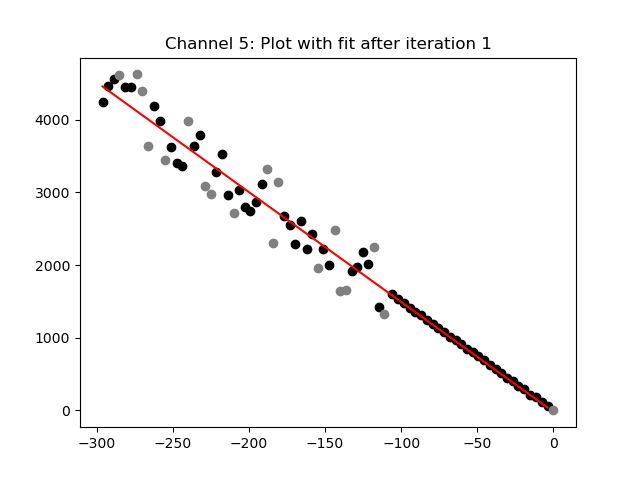
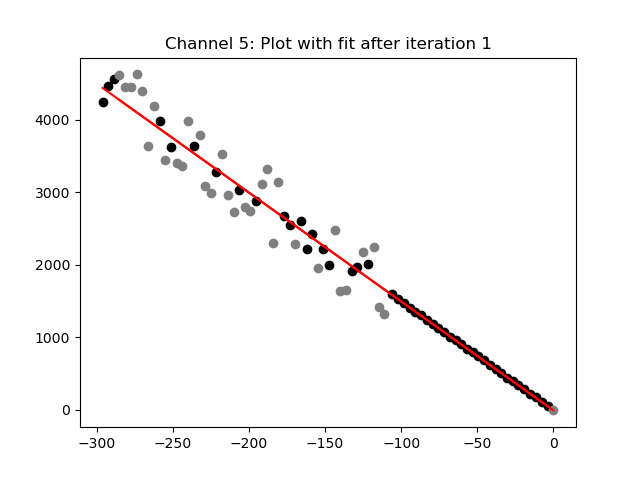
Outlier treatment 2: Treatment successful

diff --git a/Calibration_script/statistics.py b/Calibration_script/statistics.py
@@ -1,4 +1,5 @@
 from Calibration_script import main
+from Calibration_script import fit
 import numpy as np
 import scipy.optimize as so
 import scipy.stats as ss
@@ -14,29 +15,32 @@ def plot_with_fit(x,y,x_cut,y_cut,m,n,xlabel,ylabel,title):
     plt.ylabel(ylabel)
     plt.title(title)
     plt.scatter(x, y, color='black')
+    #plt.errorbar(x,y,yerr=2.44,fmt='ok')
     plt.scatter(x_cut, y_cut, color='grey')
     y_fit = lin(x,m,n)
     plt.plot(x,y_fit,'r-')
+    y_fit = lin(x_cut,m,n)
+    plt.plot(x_cut,y_fit,'r-')
     #plt.show()
-    plt.savefig(os.path.join('../data/validation', title))
+    plt.savefig(os.path.join('../data/statistics', title))
     return None
 
-def plot_residuals(x,r, cut, m, n, title):
+def plot_residuals(x,r, cut, m, n, title,name):
     plt.figure()
     plt.axhline(0)
     plt.grid()
     plt.scatter(x[~cut], r[~cut], color='black')
     plt.scatter(x[cut], r[cut], color='grey')
     plt.title(title)
-    plt.savefig(os.path.join('../data/validation',title))
+    plt.savefig(os.path.join('../data/statistics',name))
     return None
 
-def chi_square(y,y_fit):
-    chi2 = np.sum( (y-y_fit)**2/y_fit )
+def chi_square(y,y_fit,y_err):
+    chi2 = np.sum( (y-y_fit)**2/y_err)
     return chi2
 
 def outliers(x,y):
-    # range criteria
+    # range criteria (remove saturation)
     ymax, ymin = np.amax(y), np.amin(y)
     range = ymax - ymin
     print(f"Maximum and minimum:", ymax, ymin)
@@ -49,87 +53,99 @@ def outliers(x,y):
     cut = cut1 + cut2
 
     # use gradient of y values to fit only linear values (remove scattering values)
+    # gradient gives the "slope", twice gradient gives "curvature"
     grad = np.gradient(y)
     grad2 = np.gradient(grad)
-    mean_grad = np.mean(grad)
-    mean_grad2 = np.mean(grad2)
-    median_grad = np.median(grad)
-    median_grad2 = np.median(grad2)
+    mean_grad = np.mean(grad[~cut])
+    mean_grad2 = np.mean(grad2[~cut])
+    median_grad = np.median(grad[~cut])
+    median_grad2 = np.median(grad2[~cut])
     help_cut1 = grad2 > 10.0
     help_cut2 = grad2 < - 10.0
-    help_cut = help_cut1 + help_cut2
-
-    print(mean_grad)
-    print(median_grad)
+    help_cut = help_cut1 + help_cut2 + cut
+    print(f"Mean of grad: {mean_grad}")
+    print(f"Median of grad: {median_grad}")
 
     # remove false positive points of gradient criteria
-    help_cut1 = grad > 1.2 * mean_grad
-    help_cut2 = grad < 0.8 * mean_grad2
+    help_cut1 = np.abs(grad) > 1.2 * np.abs(mean_grad)
+    help_cut2 = np.abs(grad) < 0.8 * np.abs(mean_grad)
     help_cut = help_cut + help_cut1 + help_cut2
+
+    # if all points were removed due to outliers, use median instead of mean
+    if x[~help_cut].size == 0:
+        print("Condition activated!")
+        help_cut1 = grad2 > 10.0
+        help_cut2 = grad2 < - 10.0
+        help_cut = help_cut1 + help_cut2 + cut
+        # remove false positive points of gradient criteria
+        help_cut1 = np.abs(grad) > 1.2 * np.abs(median_grad)
+        help_cut2 = np.abs(grad) < 0.8 * np.abs(median_grad)
+        help_cut = help_cut + help_cut1 + help_cut2
 
     # plot gradients
     plt.figure()
     plt.grid()
-    plt.scatter(x[~help_cut], grad2[~help_cut], color="black")
-    plt.scatter(x[help_cut], grad2[help_cut], color="grey")
-    plt.title("Twice Gradient")
-
-    plt.figure()
-    plt.grid()
     plt.scatter(x[~help_cut], grad[~help_cut], color="black")
     plt.scatter(x[help_cut], grad[help_cut], color="grey")
-    plt.title("Gradient")
-    plt.show()
+    plt.title(f"First Gradient of Channel {channel}")
+    plt.savefig(f"../data/statistics/Channel {channel}: 1st Gradient")
+    plt.figure()
+    plt.grid()
+    plt.scatter(x[~help_cut], grad2[~help_cut], color="black")
+    plt.scatter(x[help_cut], grad2[help_cut], color="grey")
+    plt.title(f"Second Gradient of Channel {channel}")
+    plt.savefig(f"../data/statistics/Channel {channel}: 2nd Gradient")
+
+    # errors
+    x_err = main.SMU_I_error(x,channel)
+    y_err = np.ones_like(y)*2.44
 
     # auxiliary fit
-    popt, pcov = so.curve_fit(lin, x[~help_cut], y[~help_cut])
+    # Saturation got cut, considers all values along a line
+    popt, pcov = so.curve_fit(lin, x[~help_cut], y[~help_cut], sigma=y_err[~help_cut], absolute_sigma=True)
     m, n = popt[0], popt[1]
     plot_with_fit(x[~help_cut],y[~help_cut],x[help_cut],y[help_cut],popt[0],popt[1],"","",f"Channel {channel}: Plot with auxiliary fit")
-
+    print("Initial Fit:")
+    print(f"a = {popt[0]} +/- {np.sqrt(pcov[0][0])}")
+    print(f"b = {popt[1]} +/- {np.sqrt(pcov[1][1])}")
     #model = ss.linregress(x[~cut],y[~cut])
     #print(f"R^2 value: {model.rvalue ** 2}\nSlope: {model.slope}, Intercept:  {model.intercept}")
 
-    # cut outliers
-    # idea: create auxiliary fit and remove 5% of worst values
-    # then repeat
-    iterations = [1,2]
-    for i in iterations:
-        r = y - (m*x+n)
-        std_r = np.std(r[~cut])
-        mean_r = np.mean(r[~cut])
-        #print(f"Standard deviation of residuals: {std_r} \n Mean: {mean_r}")
-        y_fit = m*x+n
-        chi2 = chi_square(y,y_fit)
-        chi2_red = chi2/(len(y)-2)
-        print(f"Chi square: {chi2}\n Reduced Chi square: {chi2_red}")
-        # cut on this
-        """ First method:
-        cut1 = r > 2*std_r
-        cut2 = r<(-2)*std_r
-        cut = cut + cut1 + cut2
-        print(cut)
-        """
-        """ Second method
-        NOTES: Aux linear fit works really well
-        cutting outliers via residuals not
-        """
-        r = np.abs(r)
-        cut1 = np.abs(r) > 2 * np.abs(np.mean(r))
-        cut = cut + cut1
+    # Fit with ODR
+    popt_odr, perr_odr, red_chi_2 = fit.fit_odr(fit_func=lin, x=x[~help_cut], y=y[~help_cut], x_err=x_err[~help_cut], y_err=y_err[~help_cut], p0=[popt[0],popt[1]])
+    print(popt_odr)
+    print(perr_odr)
+    print("ODR Chi squared:",red_chi_2)
+    print("ODR reduced chi squared", red_chi_2/(len(x[~cut])-2))
+    m,n = popt_odr[0], popt_odr[1]
 
-        print(np.mean(r),np.median(r))
-        plot_residuals(x,r, cut, m, n,f"Channel {channel}: Residuals after iteration {i}")
-        popt, pcov = so.curve_fit(lin, x[~cut], y[~cut])
-        m, n = popt[0], popt[1]
-        print(f"a = {popt[0]} +/- {np.sqrt(pcov[0][0])}")
-        print(f"b = {popt[1]} +/- {np.sqrt(pcov[1][1])}")
-        plot_with_fit(x[~cut],y[~cut],x[cut],y[cut],popt[0],popt[1],"","",f"Channel {channel}: Plot with fit after iteration {i}")
-        model = ss.linregress(x[~cut], y[~cut])
-        #print(f"R^2 value: {model.rvalue ** 2}\nSlope: {model.slope}, Intercept:  {model.intercept}")
-        y_fit = m * x + n
-        chi2 = chi_square(y[~cut], y_fit[~cut])
-        chi2_red = chi2 / (len(y[~cut]) - 2)
-        print(f"Chi square: {chi2}\n Reduced Chi square: {chi2_red}")
+    # cut outliers
+    # idea: create auxiliary fit and remove the worst values
+    r = y - (m*x+n)
+    std_r = np.std(r[~cut])
+    mean_r = np.mean(r[~cut])
+    print(f"Standard deviation of residuals: {std_r} \n Mean: {mean_r}")
+    # cut on this
+    # use abs of residuals because res are distribted around zero -> mean is useless
+    r = np.abs(r)
+    cut1 = np.abs(r) > 2 * np.abs(np.mean(r))
+    cut = cut + cut1
+
+    print(f"Mean and median of abs(r): {np.mean(r)}, {np.median(r)}")
+    plot_residuals(x,r, cut, m, n,f"Channel {channel}: Absolute values of residuals",f"Channel {channel}: Residuals")
+    popt, pcov = so.curve_fit(lin, x[~cut], y[~cut])
+
+    popt, perr, red_chi_2 = fit.fit_odr(fit_func=lin, x=x[~cut], y=y[~cut], x_err=x_err[~cut], y_err=y_err[~cut], p0=[popt[0], popt[1]])
+    print(popt)
+    print(perr)
+    print(red_chi_2)
+
+    m, n = popt[0], popt[1]
+    print("Final Fit:")
+    print(f"a = {popt[0]} +/- {np.sqrt(pcov[0][0])}")
+    print(f"b = {popt[1]} +/- {np.sqrt(pcov[1][1])}")
+    plot_with_fit(x[~cut],y[~cut],x[cut],y[cut],popt[0],popt[1],"","",f"Channel {channel}: Plot with fit after outlier removal")
+    print(f"ODR Chi Square: {red_chi_2}, reduced Chi Square: {red_chi_2/(len(x[~cut])-2)}")
 
     return x[~cut], y[~cut], x[cut], y[cut], m, n
 
@@ -138,11 +154,14 @@ channel = 5
 ###
 
 path_UvsU = f"./../data/Channel_{channel}_U_vs_U.dat"
+# Test File
+#path_UvsU = f"./../data/statistics/Channel_{channel}_U_vs_U_test.dat"
 columns_UvsU = ["$U_{DAC}$ [mV]", "$U_{out}$ [mV]", "$U_{regulator}$ [mV]", "$U_{load}$ [mV]", "unknown 5","unknown 6"]
 data_UvsU = main.read_data(path_UvsU, columns_UvsU)
 
 path_IvsI = f"./../data/Channel_{channel}_I_vs_I.dat"
-#path_IvsI = f"./../data/validation/Channel_5_test_I.dat"
+# Test File
+#path_IvsI = f"./../data/statistics/Channel_{channel}_I_vs_I_test.dat"
 columns_IvsI = ["unknown 1", "$I_{out(SMU)}$ [mA]", "$I_{outMon}$ [mV]", "$U_{outMon}$", "StatBit","$U_{SMU}$"]
 data_IvsI = main.read_data(path_IvsI, columns_IvsI)
 
@@ -150,7 +169,9 @@ path_IlimitvsI = f"./../data/Channel_{channel}_Ilimit_vs_I.dat"
 columns_IlimitvsI = ["$I_{lim,DAC}$ [mV]", "$I_{lim,SMU}$ [mA]", "unknown 3", "unknown 4", "StatBit"]
 data_IlimitvsI = main.read_data(path_IlimitvsI, columns_IlimitvsI)
 
+# For Current
 x,y,l = main.get_and_prepare(data_IvsI,'$I_{out(SMU)}$ [mA]', '$I_{outMon}$ [mV]')
+# For Voltage
 #x,y,l= main.get_and_prepare(data_UvsU, '$U_{DAC}$ [mV]', '$U_{out}$ [mV]')
 x,y,x_cut,y_cut, m, n = outliers(x,y)
 #validation.scatter_cut(x,y,x_cut,y_cut,"x","y",f"Channel {channel}: new")
